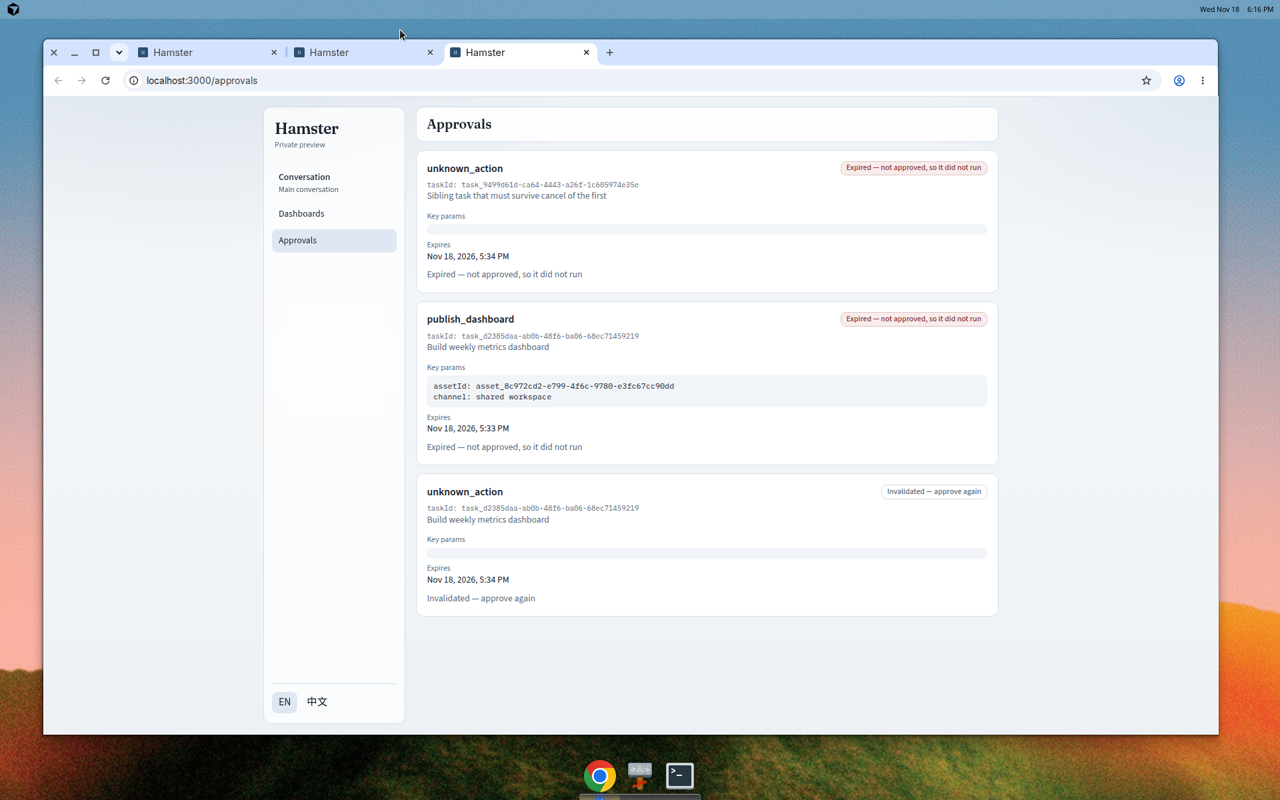
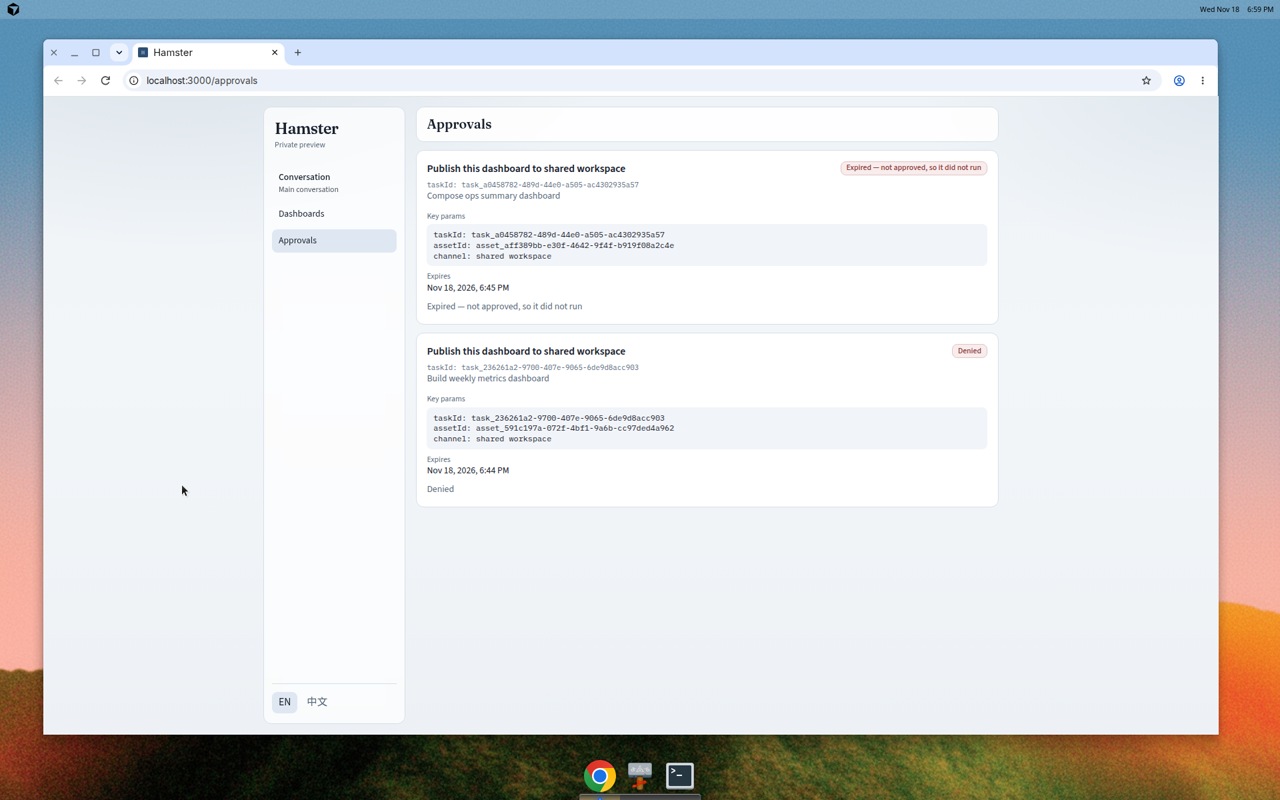
fix(p0): Failed task cards, plain approval titles, drop process-gap badge
Tool failures set the task to Failed with a titled human-readable reason on
the Task card (no bare “Task halted”). Remove “Needs review after process gap”
from the product surface. Approval cards use plain-language action titles and
omit empty Key params; resolve publish_dashboard from call.requested when
eve omits origin.call. Recapture ui-smoke screenshots; not a design-gate pass.

diff --git a/api/src/events.js b/api/src/events.js
@@ -10,6 +10,43 @@ const { paramsHash } = require('./policy');
 
 const EXPIRY_NOTE = 'Expired — not approved, so it did not run';
 
+// Same-session tool approvals omit origin.call; the tool name/input live on the
+// preceding call.requested fact keyed by subject.callId. Subagent relays still
+// carry origin.call. Cache both so tickets get the real action for policy match
+// and so the React client can map to plain-language titles (never show raw ids).
+const callBySessionAndId = new Map(); // `${sessionId}:${callId}` -> { name, input }
+
+function callCacheKey(sessionId, callId) {
+  return `${sessionId}:${callId}`;
+}
+
+function rememberCallRequested(sessionId, fact) {
+  const data = fact.data ?? {};
+  const callId = data.callId;
+  const name = data.capability?.name;
+  if (!callId || !name) return;
+  const input =
+    data.input && typeof data.input === 'object' && !Array.isArray(data.input) ? data.input : {};
+  callBySessionAndId.set(callCacheKey(sessionId, callId), { name: String(name), input });
+}
+
+function resolveApprovalCall(sessionId, data) {
+  const originCall = data.origin?.call ?? null;
+  if (originCall?.name && String(originCall.name).trim()) {
+    const input =
+      originCall.input && typeof originCall.input === 'object' && !Array.isArray(originCall.input)
+        ? originCall.input
+        : {};
+    return { name: String(originCall.name).trim(), input };
+  }
+  const callId = data.subject?.callId;
+  if (callId) {
+    const cached = callBySessionAndId.get(callCacheKey(sessionId, callId));
+    if (cached?.name) return cached;
+  }
+  return { name: 'unknown_action', input: {} };
+}
+
 async function findTaskBySession(sessionId) {
   const { rows } = await query('SELECT * FROM tasks WHERE eve_session_id = $1', [sessionId]);
   return rows[0] ?? null;
@@ -21,8 +58,8 @@ async function findConversationBySession(sessionId) {
 }
 
 // Upsert a ticket for a pending eve approval. Params come from the call site the
-// worker attempted (origin.call.input), so authorization stays bound to exactly
-// what was asked, never to a later natural-language echo of it.
+// worker attempted (origin.call.input or call.requested.input), so authorization
+// stays bound to exactly what was asked, never to a later natural-language echo.
 async function handleApprovalOpened(fact, sessionId) {
   const data = fact.data ?? {};
   if (data.request?.kind !== 'approval') return;
@@ -31,9 +68,10 @@ async function handleApprovalOpened(fact, sessionId) {
     console.log('[events] approval opened on non-task session; not bound to a ticket', sessionId);
     return;
   }
-  const origin = data.origin?.call ?? null;
-  const action = origin?.name ?? 'unknown_action';
-  const params = origin?.input ?? {};
+  const resolved = resolveApprovalCall(sessionId, data);
+  // Machine id for policy matching; React maps to plain-language card titles.
+  const action = resolved.name || 'unknown_action';
+  const params = resolved.input ?? {};
   const hash = paramsHash(params);
   const approvalId = `appr_${data.interactionId}`;
   const ttlSeconds = Number(process.env.HAMSTER_APPROVAL_TTL_SECONDS ?? '600');
@@ -185,6 +223,9 @@ async function audit(action, detail, actor = 'system') {
 
 async function handleFact(key, sessionId, fact) {
   switch (fact?.type) {
+    case 'call.requested':
+      rememberCallRequested(sessionId, fact);
+      return undefined;
     case 'interaction.opened':
       return handleApprovalOpened(fact, sessionId);
     case 'interaction.settled':

diff --git a/client/src/components/ApprovalCard.tsx b/client/src/components/ApprovalCard.tsx
@@ -1,12 +1,12 @@
 import { useState } from 'react'
 import { ApprovalStatusLabel } from '@/components/StatusLabel'
 import { Button } from '@/components/ui/button'
-import { getCopy, type Locale } from '@/i18n/messages'
+import { approvalActionLabel, getCopy, type Locale } from '@/i18n/messages'
 import type { Approval } from '@/lib/api'
 import { formatTime } from '@/lib/utils'
 
-function safeParams(params: Record<string, unknown>) {
-  const entries = Object.entries(params ?? {})
+function safeParams(params: Record<string, unknown> | null | undefined) {
+  const entries = Object.entries(params ?? {}).filter(([, value]) => value !== undefined)
   return entries.map(([key, value]) => {
     const lower = key.toLowerCase()
     const secretish =
@@ -37,12 +37,14 @@ export function ApprovalCard({
   const pending = approval.status === 'pending'
   const expiresAt = approval.expiresAt ?? approval.expires_at ?? null
   const note = approval.decisionNote ?? approval.decision_note ?? null
+  const params = safeParams(approval.params)
+  const title = approvalActionLabel(approval.action, approval.params, locale)
 
   return (
     <article className="rounded-lg border border-[var(--color-border)] bg-[var(--color-card)] p-4">
       <header className="flex flex-wrap items-start justify-between gap-2">
         <div>
-          <h3 className="text-base font-semibold">{approval.action}</h3>
+          <h3 className="text-base font-semibold">{title}</h3>
           <div className="mt-1 font-mono text-[11px] text-[var(--color-muted-foreground)]">
             {t.taskId}: {approval.taskId}
           </div>
@@ -54,16 +56,18 @@ export function ApprovalCard({
       </header>
 
       <dl className="mt-3 flex flex-col gap-2 text-sm">
-        <div>
-          <dt className="text-xs text-[var(--color-muted-foreground)]">{t.params}</dt>
-          <dd className="mt-1 rounded-md bg-[var(--color-muted)]/60 px-2.5 py-2 font-mono text-xs">
-            {safeParams(approval.params).map((p) => (
-              <div key={p.key}>
-                {p.key}: {p.value}
-              </div>
-            ))}
-          </dd>
-        </div>
+        {params.length > 0 ? (
+          <div>
+            <dt className="text-xs text-[var(--color-muted-foreground)]">{t.params}</dt>
+            <dd className="mt-1 rounded-md bg-[var(--color-muted)]/60 px-2.5 py-2 font-mono text-xs">
+              {params.map((p) => (
+                <div key={p.key}>
+                  {p.key}: {p.value}
+                </div>
+              ))}
+            </dd>
+          </div>
+        ) : null}
         {expiresAt ? (
           <div>
             <dt className="text-xs text-[var(--color-muted-foreground)]">{t.expires}</dt>

diff --git a/api/index.js b/api/index.js
@@ -73,16 +73,14 @@ async function taskDetail(taskId) {
     query('SELECT control_seq, type, payload, status, created_at, applied_at FROM task_controls WHERE task_id = $1 ORDER BY control_seq ASC', [taskId]),
     query('SELECT id, action, params, status, expires_at, decided_at, decision_note, consumed_at FROM approvals WHERE task_id = $1 ORDER BY requested_at ASC', [taskId]),
   ]);
-  const lastEventAt = evts.rows.at(-1)?.created_at ?? null;
-  const nonTerminal = !['succeeded', 'failed', 'cancelled'].includes(t.status);
-  const needsReview =
-    nonTerminal && lastEventAt !== null && Date.now() - new Date(lastEventAt).getTime() > 15 * 60 * 1000;
+  const failureEvent = [...evts.rows].reverse().find((e) => e.kind === 'failure') ?? null;
   return {
     ...taskJson(t),
     events: evts.rows,
     controls: ctrls.rows,
     approvals: apprs.rows,
-    needsReview,
+    // Human-readable failure reason for the Task card (design-table status: Failed).
+    failureReason: failureEvent?.message ?? null,
   };
 }
 
@@ -649,11 +647,21 @@ app.post('/internal/events', requireInternal, asyncRoute(async (req, res) => {
     return res.status(409).json({ error: 'task_cancelled' });
   }
   const ev = await events.appendTaskEvent(taskId, { kind, message, step, total });
-  await query(
-    `UPDATE tasks SET status = 'running', updated_at = now()
-      WHERE id = $1 AND status IN ('queued', 'waiting_for_approval')`,
-    [taskId]
-  );
+  if (kind === 'failure') {
+    // Design-table terminal status is Failed — never leave a still-Running card
+    // beside a "halted" chat line for this task.
+    await query(
+      `UPDATE tasks SET status = 'failed', updated_at = now()
+        WHERE id = $1 AND status NOT IN ('cancelled')`,
+      [taskId]
+    );
+  } else {
+    await query(
+      `UPDATE tasks SET status = 'running', updated_at = now()
+        WHERE id = $1 AND status IN ('queued', 'waiting_for_approval')`,
+      [taskId]
+    );
+  }
   res.status(201).json({ seq: ev?.seq ?? null });
 }));
 

diff --git a/client/src/i18n/messages.ts b/client/src/i18n/messages.ts
@@ -77,7 +77,7 @@ const copy = {
     layoutNote: 'Layout stays mounted. Refresh re-fetches saved bindings only.',
     loading: 'Loading…',
     error: 'Something went wrong',
-    needsReview: 'Needs review after process gap',
+    failureReason: 'Failure reason',
   },
   zh: {
     brand: 'Hamster',
@@ -114,7 +114,7 @@ const copy = {
     layoutNote: '布局保持挂载。刷新只按已保存绑定取数。',
     loading: '加载中…',
     error: '出错了',
-    needsReview: '进程中断后需复核',
+    failureReason: '失败原因',
   },
 } as const
 
@@ -152,4 +152,33 @@ export function freshnessLabel(
   if (freshness === 'refresh_failed') return FRESHNESS.refreshFailed[locale]
   if (freshness === 'stale') return FRESHNESS.stale[locale]
   return FRESHNESS.lastSucceeded[locale](time)
+}
+
+/** Plain-language approval titles — never show raw tool ids as the card title. */
+export function approvalActionLabel(
+  action: string,
+  params: Record<string, unknown> | null | undefined,
+  locale: Locale,
+): string {
+  const channel =
+    typeof params?.channel === 'string' && params.channel.trim() ? params.channel.trim() : null
+  switch (action) {
+    case 'publish_dashboard':
+      return locale === 'zh'
+        ? channel
+          ? `将此 Dashboard 发布到${channel}`
+          : '发布此 Dashboard'
+        : channel
+          ? `Publish this dashboard to ${channel}`
+          : 'Publish this dashboard'
+    case 'save_dashboard_page':
+      return locale === 'zh' ? '保存 Dashboard 页面' : 'Save the dashboard page'
+    case 'unknown_action':
+    case '':
+    case undefined:
+      return locale === 'zh' ? '未知动作（需要批准）' : 'An unknown action (needs approval)'
+    default:
+      // Unknown tool id: say so in plain words, do not echo the identifier as the title.
+      return locale === 'zh' ? '未知动作（需要批准）' : 'An unknown action (needs approval)'
+  }
 }

diff --git a/client/src/components/TaskCard.tsx b/client/src/components/TaskCard.tsx
@@ -24,6 +24,10 @@ export function TaskCard({
   const [busy, setBusy] = useState(false)
   const terminal = ['succeeded', 'failed', 'cancelled'].includes(task.status)
   const latestControl = task.controls.at(-1)
+  const failureReason =
+    task.failureReason ||
+    [...task.events].reverse().find((e) => e.kind === 'failure')?.message ||
+    null
 
   return (
     <article
@@ -44,11 +48,20 @@ export function TaskCard({
         </div>
         <div className="flex flex-col items-end gap-1">
           <TaskStatusLabel status={task.status} locale={locale} />
-          {task.needsReview ? (
-            <span className="text-xs text-[var(--color-muted-foreground)]">{t.needsReview}</span>
-          ) : null}
         </div>
       </header>
+
+      {task.status === 'failed' && failureReason ? (
+        <div className="mt-3 rounded-md border border-[#e2c4c4] bg-[#f8ecec] px-2.5 py-2 text-sm text-[var(--color-destructive)]">
+          <div className="text-xs font-medium text-[var(--color-muted-foreground)]">
+            {t.failureReason}
+          </div>
+          <div className="mt-0.5">
+            <span className="font-medium">{task.title}</span>
+            <span> — {failureReason}</span>
+          </div>
+        </div>
+      ) : null}
 
       {task.events.length > 0 ? (
         <div className="mt-3">
@@ -64,6 +77,7 @@ export function TaskCard({
                 <span className="font-mono text-[11px] text-[var(--color-muted-foreground)]">
                   #{ev.seq}
                   {ev.step != null && ev.total != null ? ` · ${ev.step}/${ev.total}` : ''}
+                  {ev.kind === 'failure' ? ' · failure' : ''}
                 </span>
                 <div>{ev.message}</div>
               </li>

diff --git a/agent/agent/agent.ts b/agent/agent/agent.ts
@@ -107,8 +107,32 @@ function scriptedRespond(request: ScriptedRequest) {
 
   const errored = toolResults.find((r) => r.isError);
   if (errored) {
+    const failureReason =
+      errored.name === "publish_dashboard"
+        ? `Publishing the dashboard for “${title}” was not approved or was denied, so it did not run.`
+        : `“${title}” failed while running ${errored.name.replaceAll("_", " ")}.`;
+    const erroredIndex = toolResults.indexOf(errored);
+    const failureRecorded = toolResults.some(
+      (r, idx) =>
+        idx > erroredIndex && r.name === "record_task_event" && !r.isError,
+    );
+    if (!failureRecorded) {
+      return {
+        toolCalls: [
+          {
+            name: "record_task_event",
+            input: {
+              taskId,
+              kind: "failure",
+              message: failureReason,
+            },
+          },
+        ],
+      };
+    }
+    // Name the task in chat so a Failed card is never confused with a still-Running sibling.
     return {
-      text: `Task halted: tool ${errored.name} reported an error. See the task timeline for details.`,
+      text: `Failed: “${title}” (${taskId}) — ${failureReason}`,
     };
   }
 

diff --git a/agent/agent/tools/record_task_event.ts b/agent/agent/tools/record_task_event.ts
@@ -9,7 +9,7 @@ export default defineTool({
     "Record one durable checkpoint for a long-running Hamster task. Progress asked later reads these persisted events.",
   inputSchema: z.object({
     taskId: z.string().min(1),
-    kind: z.enum(["checkpoint", "note"]).default("checkpoint"),
+    kind: z.enum(["checkpoint", "note", "failure"]).default("checkpoint"),
     step: z.number().int().positive().optional(),
     total: z.number().int().positive().optional(),
     message: z.string().min(1).max(500),
@@ -22,9 +22,9 @@ export default defineTool({
     if (!decision.allow) {
       throw new Error(`Control plane denied record_task_event: ${decision.reason ?? "denied"}`);
     }
-    // Simulate durable work so the task is visibly long-running. The delay lives
-    // in the control plane's demo tool, not in the UI.
-    if (STEP_DELAY_MS > 0) {
+    // Simulate durable work for checkpoints only. Failures must land immediately
+    // so the Task card can show Failed with the reason.
+    if (input.kind !== "failure" && STEP_DELAY_MS > 0) {
       await new Promise((resolve) => setTimeout(resolve, STEP_DELAY_MS));
     }
     return internalCall("/internal/events", {

diff --git a/client/src/pages/ConversationPage.tsx b/client/src/pages/ConversationPage.tsx
@@ -216,7 +216,9 @@ function renderTimeline(
         <div className="mb-1 text-[11px] uppercase tracking-wide text-[var(--color-muted-foreground)]">
           {message.role}
         </div>
-        <div className="whitespace-pre-wrap break-words">{message.content}</div>
+        <div className="whitespace-pre-wrap break-words">
+          {displayMessageContent(message, taskById)}
+        </div>
       </div>,
     )
   }
@@ -237,4 +239,19 @@ function renderTimeline(
   }
 
   return nodes
+}
+
+/** Never show a bare “Task halted” line that can be misread against a still-Running card. */
+function displayMessageContent(
+  message: TimelineMessage,
+  taskById: Map<string, Timeline['tasks'][number]>,
+) {
+  const content = message.content
+  if (!/^Task halted:/i.test(content)) return content
+  const taskId = typeof message.meta?.taskId === 'string' ? message.meta.taskId : null
+  const task = taskId ? taskById.get(taskId) : null
+  if (task) {
+    return `Failed: “${task.title}” (${task.taskId}) — see that task’s card for the failure reason.`
+  }
+  return content.replace(/^Task halted:/i, 'Failed:')
 }

diff --git a/client/src/lib/api.ts b/client/src/lib/api.ts
@@ -91,7 +91,7 @@ export interface TaskDetail {
   events: TaskEvent[]
   controls: TaskControl[]
   approvals: Approval[]
-  needsReview?: boolean
+  failureReason?: string | null
 }
 
 export interface TimelineMessage {

diff --git a/docs/p0-report.md b/docs/p0-report.md
@@ -54,7 +54,7 @@ Now asserts (among retained Line A / policy checks):
 | Approvals | Observed | Cards with exact `Expired — not approved, so it did not run` and `Invalidated — approve again` (no live pending card in that dataset) |
 | EN \| 中文 | **Pass (Playwright)** | `scripts/ui-smoke-locale.mjs` — nav `对话` / `Dashboard 库` / `待审批`, header `主对话`, then back to EN. Earlier computer-use click coordinates falsely reported fail; deterministic Playwright proves the toggle. |
 
-Screenshots (browser smoke): `docs/evidence/ui-smoke/`.
+Screenshots (browser smoke): `docs/evidence/ui-smoke/` (see `NOTES.md` for the must-fix recapture). Recapture shows **Failed** (not “halted”) on the Task card with a titled failure reason, no “Needs review after process gap” badge, and plain-language approval titles. **Not a design-gate pass.**
 
 This is **not** a full product E2E suite (no pending Approve/Deny click-path in the smoke dataset).
 

diff --git a/docs/evidence/ui-smoke/NOTES.md b/docs/evidence/ui-smoke/NOTES.md
@@ -1,0 +1,11 @@
+# UI smoke screenshots (recapture)
+
+Recaptured after the three design must-fixes (not a design-gate pass).
+
+| File | What changed vs prior smoke |
+| --- | --- |
+| `conversation.webp` | Task cards use design-table **Failed** (not “halted”). Failure reason is on the Task card, anchored by the human-readable title. Chat uses `Failed: “…” (taskId) — …`. No “Needs review after process gap” beside the lifecycle badge. |
+| `approvals.webp` | Card titles are plain language (`Publish this dashboard to shared workspace`), not raw `publish_dashboard` / `unknown_action`. Key params only render when params exist. |
+| `dashboard.webp` | Unrelated to the three must-fixes; re-confirmed OpenUI asset still renders. |
+
+Do **not** treat these images as a design-gate pass.
